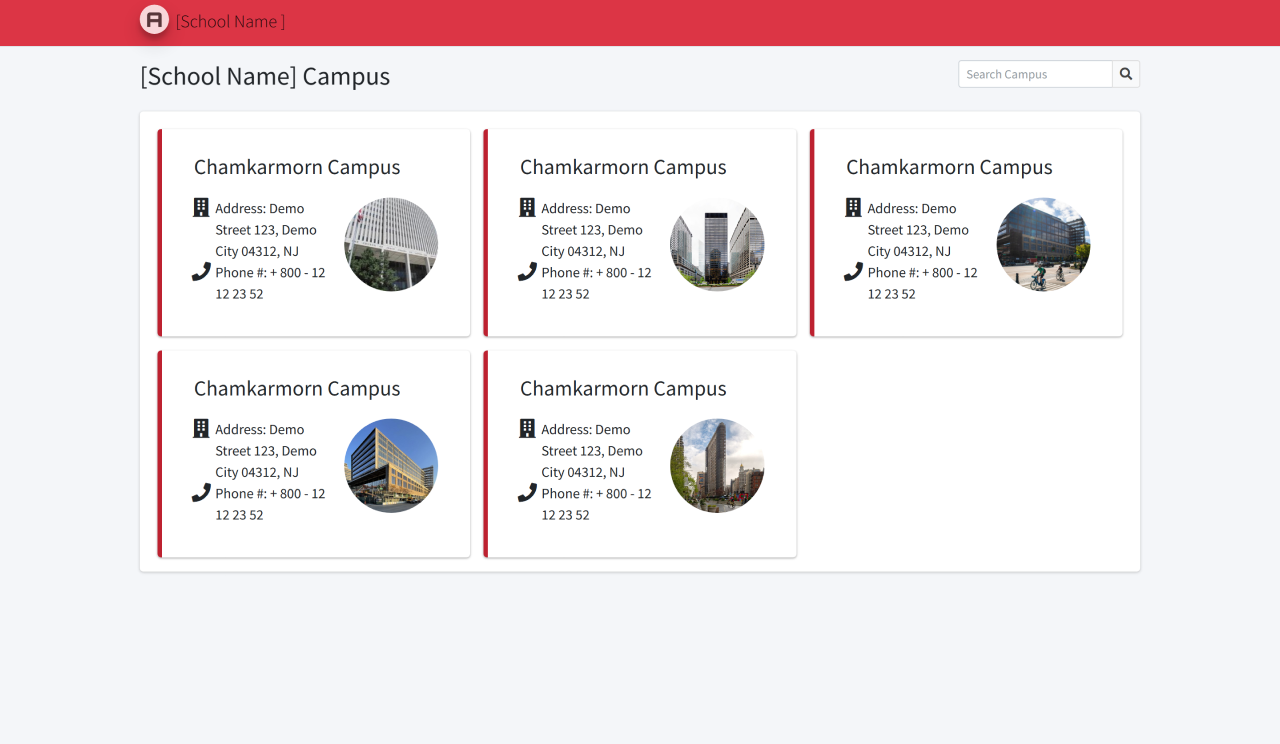
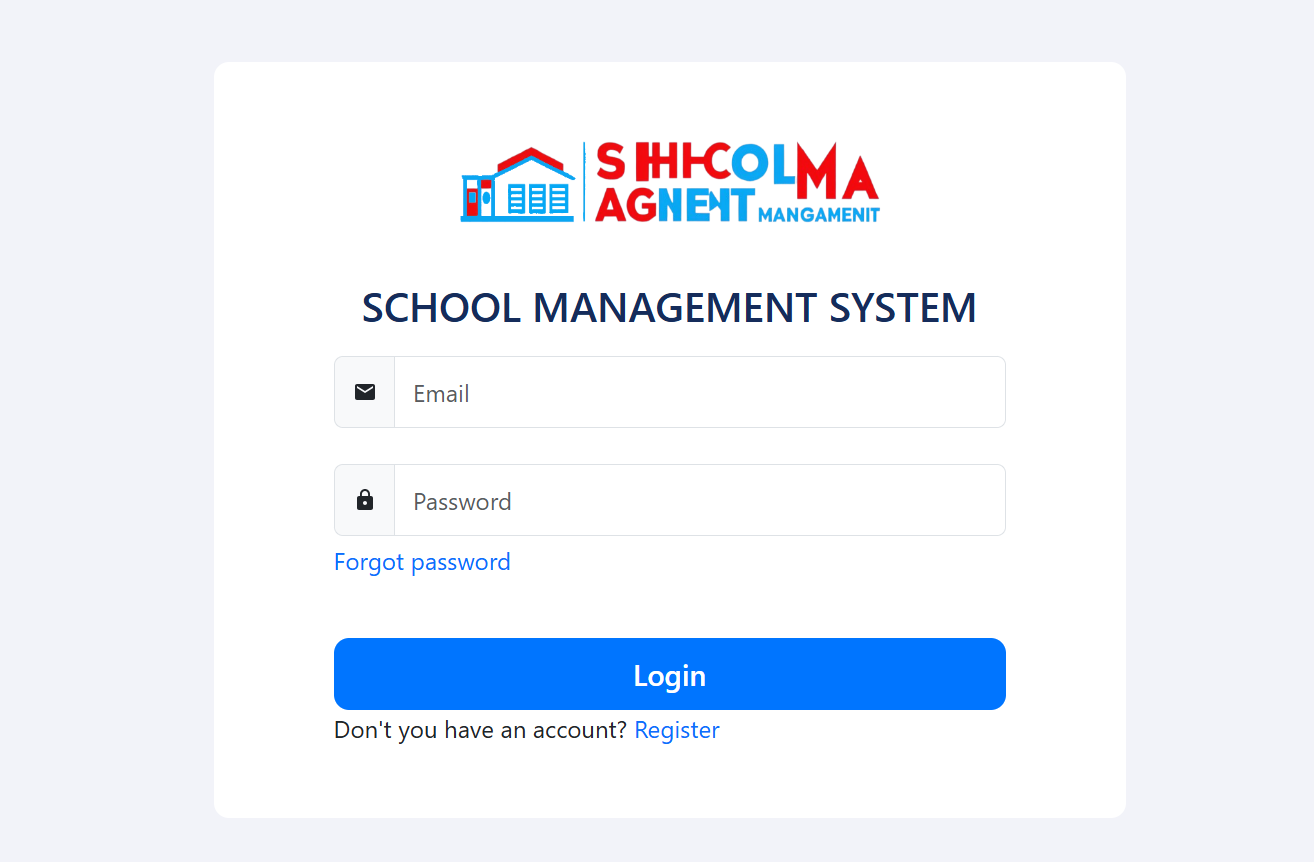
change image

diff --git a/src/constants/constants.js b/src/constants/constants.js
@@ -39,7 +39,7 @@ export const projects = [
     title: 'School Management System',
     description: "A School Management System (SMS) is an integrated platform designed to streamline and automate the various administrative and academic operations of a school. It enables efficient management of school resources, improves communication among stakeholders, and enhances the overall educational experience for students.",
     image: '/images/abs.png',
-    tags: ['Nextjs', 'Core UI', 'Bootstrap'],
+    tags: ['Reactjs', 'Bootstrap'],
     // source: 'https://github.com/smey-cam/presonal-income-expense',
     // visit: '',
     id: 4,
